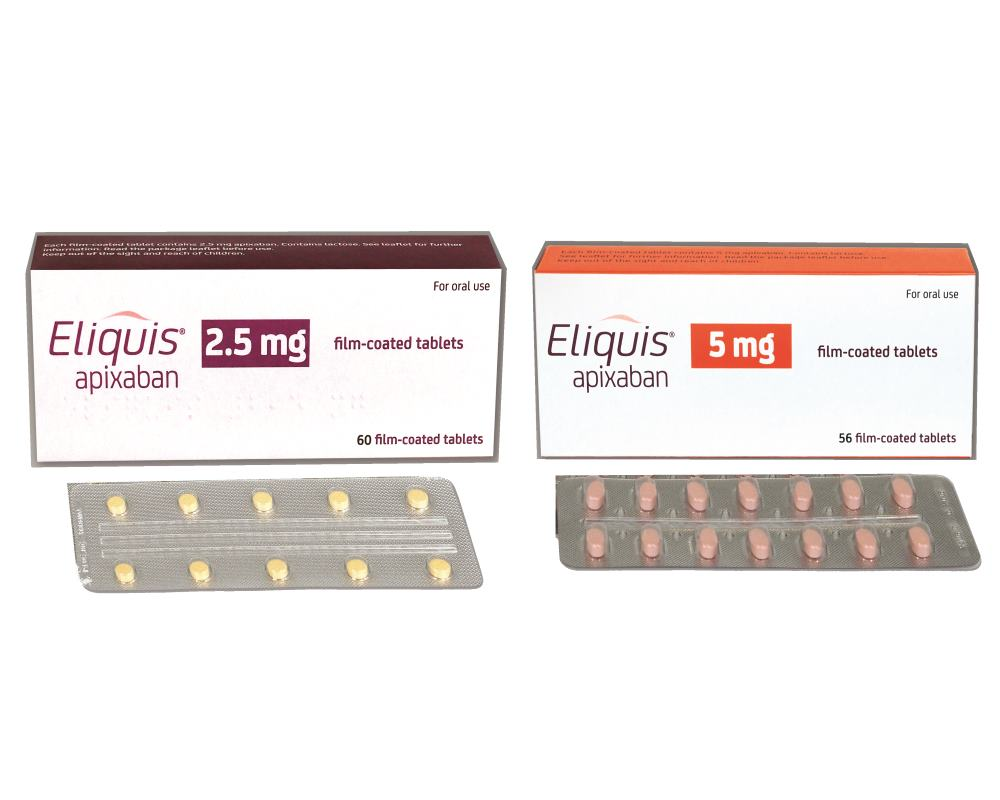
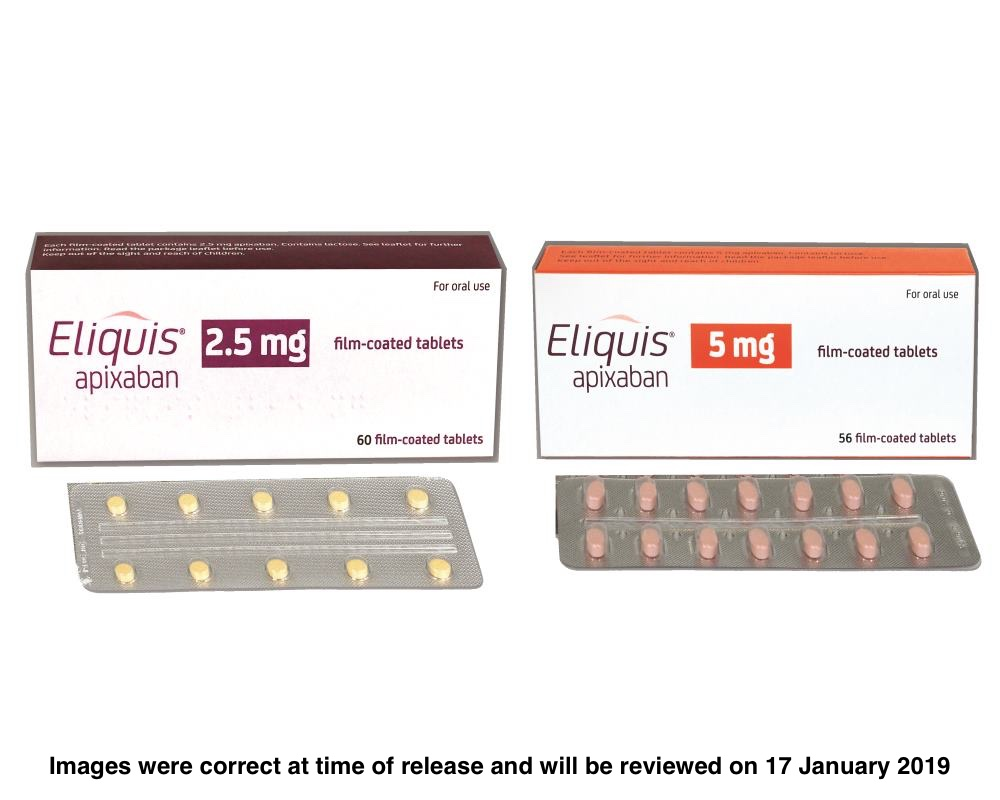
EM-143 [ABC-ICH-TABLET] Add a comment to medication images

Changed region(s): [[0.031, 0.9375, 0.961, 0.9688]]

diff --git a/stroke-app-ionic/www/modules/protocol-a/confirm-beriplex-dose/confirm-beriplex-dose.html b/stroke-app-ionic/www/modules/protocol-a/confirm-beriplex-dose/confirm-beriplex-dose.html
@@ -156,6 +156,12 @@
     <div class="chi-spacer"></div>
 
     <div class="text-center">
+	    <p><strong>Table is correct at time of release and will be reviewed on 17 January 2019</strong></p>
+    </div>
+
+    <div class="chi-spacer"></div>
+
+    <div class="text-center">
       <h2 class="input-blue">
         <strong>Calculated dose is: </strong> {{vm.calculatedDose}} IU</h2>
     </div>
